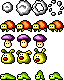
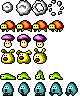
'Blue guy' enemy sprite, it will be redrawn, though

diff --git a/src/enemytypes.js b/src/enemytypes.js
@@ -13,7 +13,7 @@ import { Enemy } from "./enemy.js";
 
 export function getEnemyType(index) {
 
-    const TYPES = [Turtle, Fungus, Bunny, Caterpillar];
+    const TYPES = [Turtle, Fungus, Bunny, Caterpillar, BlueGuy];
     
     return TYPES[clamp(index, 0, TYPES.length-1) | 0];
 }
@@ -361,4 +361,70 @@ export class Bunny extends Enemy {
 		this.dir = -dir;
     }
 
+}
+
+
+export class BlueGuy extends Enemy {
+	
+	
+	constructor(x, y) {
+		
+		super(x, y, 4, 2, 1);
+		
+		this.friction.x = 0.025;
+		
+		this.oldCanJump = true;
+		
+		this.center.y = 2;
+		this.collisionBox = new Vector2(4, 12);
+        // this.hitbox = new Vector2(8, 8);
+        this.renderOffset.y = 1;
+
+        this.mass = 0.5;
+	}
+	
+	
+	init(x, y) {
+		
+		const BASE_SPEED = 0.25;
+		const BASE_GRAVITY = 2.0;
+		
+		this.dir = 2 - 1 * (((x / 16) | 0) % 2);
+		this.flip = this.dir > 0 ? Flip.Horizontal : Flip.None;
+		
+		this.target.x = BASE_SPEED;
+		this.speed.x = this.target.x;
+		this.target.y = BASE_GRAVITY;
+	}
+	
+	
+	updateAI(ev) {
+
+	}
+	
+	
+	animate(ev) {
+		
+		const WALK_ANIM_SPEED = 6.0;
+		
+		this.flip = this.dir > 0 ? Flip.Horizontal : Flip.None;
+		
+		if (this.canJump) {
+			
+			this.spr.animate(this.spr.row, 0, 3, WALK_ANIM_SPEED, ev.step);
+		}
+		else {
+
+			this.spr.setFrame(4, this.spr.row);
+		}
+	}
+	
+	
+	wallCollisionEvent(x, y, h, dir, ev) {
+		
+		this.speed.x *= -1;
+		this.target.x *= -1;
+		
+		this.dir *= -1;
+	}
 }
